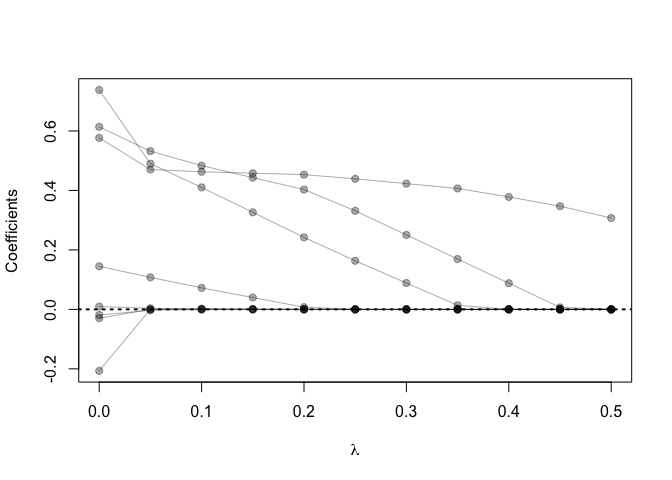
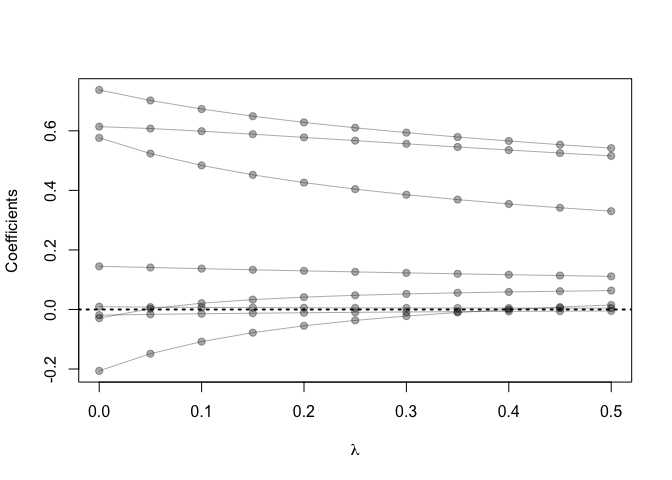
fixed

diff --git a/hw02/homework_2.md b/hw02/homework_2.md
@@ -3,15 +3,33 @@ Homework 2
 Stojsin, Rastko
 February 3, 2020
 
-```{r}
+``` r
 library('ElemStatLearn')  ## for 'prostate'
 library('splines')        ## for 'bs'
 library('dplyr')          ## for 'select', 'filter', and others
+```
+
+    ## 
+    ## Attaching package: 'dplyr'
+
+    ## The following objects are masked from 'package:stats':
+    ## 
+    ##     filter, lag
+
+    ## The following objects are masked from 'package:base':
+    ## 
+    ##     intersect, setdiff, setequal, union
+
+``` r
 library('magrittr')       ## for '%<>%' operator
 library('glmnet')         ## for 'glmnet'
 ```
 
-```{r}
+    ## Loading required package: Matrix
+
+    ## Loaded glmnet 3.0-1
+
+``` r
 ## loading prostate data
 data('prostate')
 
@@ -27,7 +45,26 @@ prostate_test <- prostate %>%
 prostate_train %>% select(-lpsa) %>% cor(method = "pearson")
 ```
 
-```{r}
+    ##             lcavol    lweight       age        lbph        svi         lcp
+    ## lcavol  1.00000000 0.30023199 0.2863243  0.06316772  0.5929491  0.69204308
+    ## lweight 0.30023199 1.00000000 0.3167235  0.43704154  0.1810545  0.15682859
+    ## age     0.28632427 0.31672347 1.0000000  0.28734645  0.1289023  0.17295140
+    ## lbph    0.06316772 0.43704154 0.2873464  1.00000000 -0.1391468 -0.08853456
+    ## svi     0.59294913 0.18105448 0.1289023 -0.13914680  1.0000000  0.67124021
+    ## lcp     0.69204308 0.15682859 0.1729514 -0.08853456  0.6712402  1.00000000
+    ## gleason 0.42641407 0.02355821 0.3659151  0.03299215  0.3068754  0.47643684
+    ## pgg45   0.48316136 0.07416632 0.2758057 -0.03040382  0.4813577  0.66253335
+    ##            gleason       pgg45
+    ## lcavol  0.42641407  0.48316136
+    ## lweight 0.02355821  0.07416632
+    ## age     0.36591512  0.27580573
+    ## lbph    0.03299215 -0.03040382
+    ## svi     0.30687537  0.48135774
+    ## lcp     0.47643684  0.66253335
+    ## gleason 1.00000000  0.75705650
+    ## pgg45   0.75705650  1.00000000
+
+``` r
 ## predict lpsa consider all other predictors
 ## linear model
 fit <- lm(lpsa ~ ., data=prostate_train)
@@ -39,12 +76,18 @@ error <- function(dat, fit, loss=L2_loss)
   mean(loss(dat$lpsa, predict(fit, newdata=dat)))
 ## train_error 
 print(paste0("training error (lin model w/least squares): ",error(prostate_train, fit)))
-## testing error
-print(paste0("test error (lin model w/least squares): ",error(prostate_test, fit)))
-
 ```
 
-```{r}
+    ## [1] "training error (lin model w/least squares): 0.439199768058334"
+
+``` r
+## testing error
+print(paste0("test error (lin model w/least squares): ",error(prostate_test, fit)))
+```
+
+    ## [1] "test error (lin model w/least squares): 0.521274005650894"
+
+``` r
 ## use glmnet to fit ridge
 ## glmnet fits using penalized L2 loss
 ## first create an input matrix and output vector
@@ -53,8 +96,41 @@ x_inp <- model.matrix(form, data=prostate_train)
 y_out <- prostate_train$lpsa
 fit <- glmnet(x=x_inp, y=y_out, lambda=seq(0.5, 0, -0.05), alpha = 0)
 print(fit$beta)
+```
 
+    ## 8 x 11 sparse Matrix of class "dgCMatrix"
 
+    ##    [[ suppressing 11 column names 's0', 's1', 's2' ... ]]
+
+    ##                                                                          
+    ## lcavol   0.330033285  0.341589837  0.3544771780  0.368972918  0.385350033
+    ## lweight  0.515702133  0.525401042  0.5354348208  0.545774936  0.556333416
+    ## age     -0.004889214 -0.005636617 -0.0064641968 -0.007389019 -0.008433635
+    ## lbph     0.111247895  0.113960541  0.1167938799  0.119761396  0.122899867
+    ## lcp      0.015113718  0.008036700 -0.0002374648 -0.010099378 -0.022038917
+    ## pgg45    0.004390006  0.004514712  0.0046621277  0.004839771  0.005060079
+    ## svi      0.541703554  0.553405591  0.5658135655  0.579176717  0.593901939
+    ## gleason  0.063402681  0.061363090  0.0588887163  0.055895060  0.052234345
+    ##                                                                         
+    ## lcavol   0.404130918  0.426074441  0.452123247  0.483787288  0.523682897
+    ## lweight  0.567063929  0.577889623  0.588568720  0.598709576  0.607672220
+    ## age     -0.009618197 -0.010967693 -0.012522584 -0.014334831 -0.016464993
+    ## lbph     0.126206606  0.129663881  0.133291299  0.137089205  0.140983846
+    ## lcp     -0.036651184 -0.054804333 -0.077864474 -0.107951309 -0.148533504
+    ## pgg45    0.005338760  0.005700404  0.006186666  0.006865954  0.007867088
+    ## svi      0.610203738  0.628338820  0.649022507  0.673210509  0.701932250
+    ## gleason  0.047604314  0.041500842  0.033144271  0.021129661  0.002465277
+    ##                     
+    ## lcavol   0.576361989
+    ## lweight  0.614010456
+    ## age     -0.019004296
+    ## lbph     0.144877454
+    ## lcp     -0.206098858
+    ## pgg45    0.009452544
+    ## svi      0.737221825
+    ## gleason -0.029176315
+
+``` r
 ## functions to compute testing/training error with glmnet
 error <- function(dat, fit, lam, form, loss=L2_loss) {
   x_inp <- model.matrix(form, data=dat)
@@ -63,3 +139,40 @@ error <- function(dat, fit, lam, form, loss=L2_loss) {
   mean(loss(y_out, y_hat))
 }
 ```
+
+``` r
+## plot path diagram
+plot(x=range(fit$lambda),
+     y=range(as.matrix(fit$beta)),
+     type='n',
+     xlab=expression(lambda),
+     ylab='Coefficients')
+for(i in 1:nrow(fit$beta)) {
+  points(x=fit$lambda, y=fit$beta[i,], pch=19, col='#00000055')
+  lines(x=fit$lambda, y=fit$beta[i,], col='#00000055')
+}
+abline(h=0, lty=3, lwd=2)
+```
+
+![](homework_2_files/figure-gfm/unnamed-chunk-5-1.png)<!-- -->
+
+``` r
+## compute training and testing errors as function of lambda
+err_train <- sapply(fit$lambda, function(lam) 
+  error(prostate_train, fit, lam, form))
+err_test <- sapply(fit$lambda, function(lam) 
+  error(prostate_test, fit, lam, form))
+
+## plot test/train error
+plot(x=range(fit$lambda),
+     y=range(c(err_train, err_test)),
+     type='n',
+     xlab=expression(lambda),
+     ylab='train/test error')
+points(fit$lambda, err_train, pch=19, type='b', col='darkblue')
+points(fit$lambda, err_test, pch=19, type='b', col='darkred')
+legend('topleft', c('train','test'), lty=1, pch=19,
+       col=c('darkblue','darkred'), bty='n')
+```
+
+![](homework_2_files/figure-gfm/unnamed-chunk-6-1.png)<!-- -->
